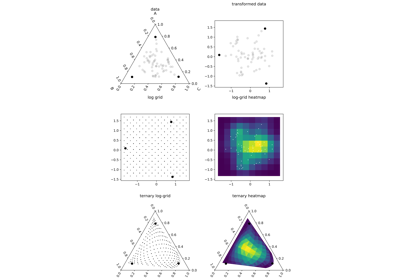
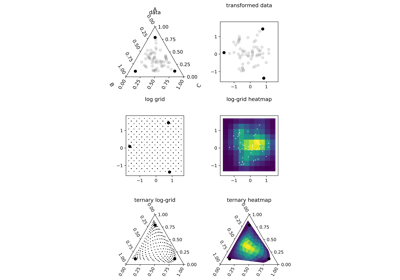
Reduce ternary density tutorial figsize
Update tutorials

diff --git a/docs/source/tutorials/ternary_density.py b/docs/source/tutorials/ternary_density.py
@@ -51,7 +51,7 @@ import pyrolite.plot
 from pyrolite.util.math import flattengrid
 from pyrolite.util.plot import axes_to_ternary, share_axes
 
-fig, ax = plt.subplots(3, 2, figsize=(8, 12))
+fig, ax = plt.subplots(3, 2, figsize=(6, 9))
 ax = ax.flat
 
 share_axes([ax[1], ax[2], ax[3]])
@@ -100,7 +100,7 @@ coords, H, data = ternary_heatmap(
     grid_border_frac=0.2,
 )
 #######################################################################################
-fig, ax = plt.subplots(3, 2, figsize=(8, 12))
+fig, ax = plt.subplots(3, 2, figsize=(6, 9))
 ax = ax.flat
 
 share_axes([ax[1], ax[2], ax[3]])

diff --git a/docs/source/usage/tutorials/_auto/ternary_density.py b/docs/source/usage/tutorials/_auto/ternary_density.py
@@ -51,7 +51,7 @@ import pyrolite.plot
 from pyrolite.util.math import flattengrid
 from pyrolite.util.plot import axes_to_ternary, share_axes
 
-fig, ax = plt.subplots(3, 2, figsize=(8, 12))
+fig, ax = plt.subplots(3, 2, figsize=(6, 9))
 ax = ax.flat
 
 share_axes([ax[1], ax[2], ax[3]])
@@ -100,7 +100,7 @@ coords, H, data = ternary_heatmap(
     grid_border_frac=0.2,
 )
 #######################################################################################
-fig, ax = plt.subplots(3, 2, figsize=(8, 12))
+fig, ax = plt.subplots(3, 2, figsize=(6, 9))
 ax = ax.flat
 
 share_axes([ax[1], ax[2], ax[3]])

diff --git a/docs/source/tutorials/ternary_density.rst b/docs/source/tutorials/ternary_density.rst
@@ -78,7 +78,7 @@ and interpoalted for the ternary heatmap:
     from pyrolite.util.math import flattengrid
     from pyrolite.util.plot import axes_to_ternary, share_axes
 
-    fig, ax = plt.subplots(3, 2, figsize=(8, 12))
+    fig, ax = plt.subplots(3, 2, figsize=(6, 9))
     ax = ax.flat
 
     share_axes([ax[1], ax[2], ax[3]])
@@ -158,7 +158,7 @@ We can see how this works almost exactly the same for the histograms:
 
 .. code-block:: default
 
-    fig, ax = plt.subplots(3, 2, figsize=(8, 12))
+    fig, ax = plt.subplots(3, 2, figsize=(6, 9))
     ax = ax.flat
 
     share_axes([ax[1], ax[2], ax[3]])
@@ -204,7 +204,7 @@ We can see how this works almost exactly the same for the histograms:
 
 .. rst-class:: sphx-glr-timing
 
-   **Total running time of the script:** ( 0 minutes  11.744 seconds)
+   **Total running time of the script:** ( 0 minutes  8.762 seconds)
 
 
 .. _sphx_glr_download_tutorials_ternary_density.py:

diff --git a/docs/source/tutorials/sg_execution_times.rst b/docs/source/tutorials/sg_execution_times.rst
@@ -5,7 +5,7 @@
 
 Computation times
 =================
-**00:11.744** total execution time for **tutorials** files:
+**00:08.762** total execution time for **tutorials** files:
 
-- **00:11.744**: :ref:`sphx_glr_tutorials_ternary_density.py` (``ternary_density.py``)
+- **00:08.762**: :ref:`sphx_glr_tutorials_ternary_density.py` (``ternary_density.py``)
 - **00:00.000**: :ref:`sphx_glr_tutorials_logo.py` (``logo.py``)
